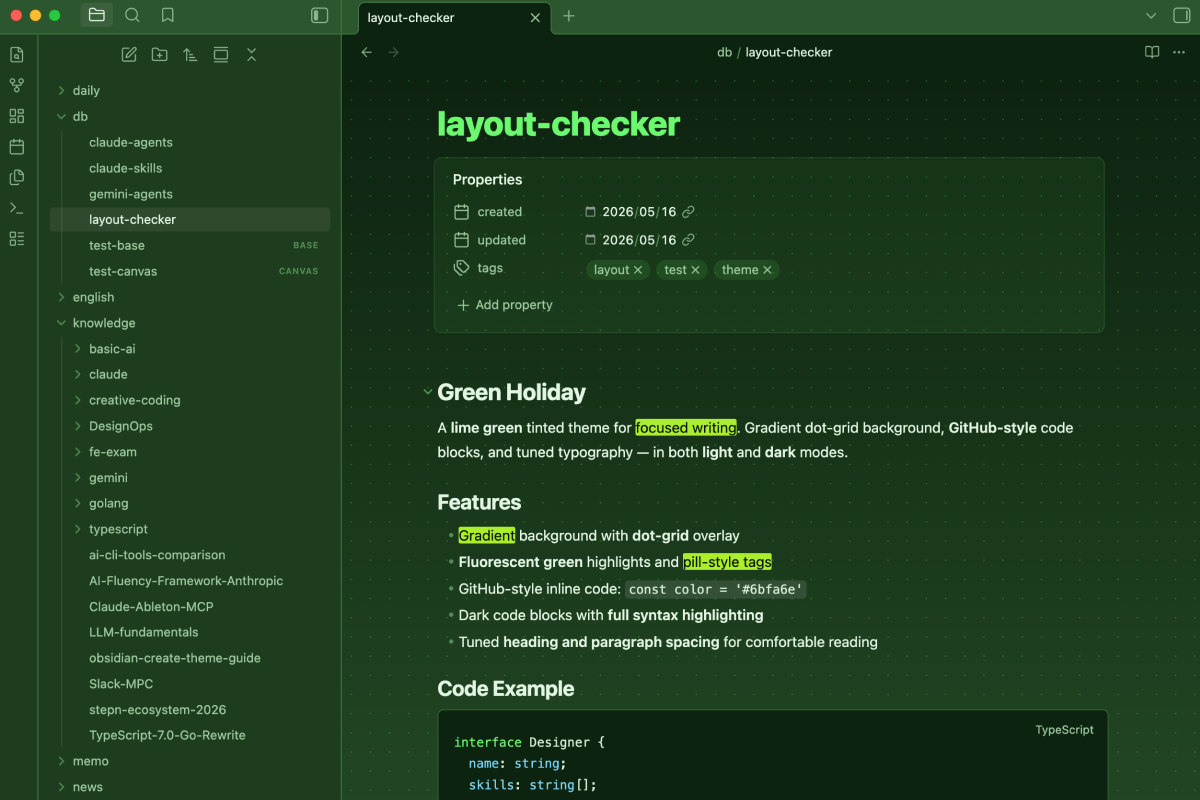
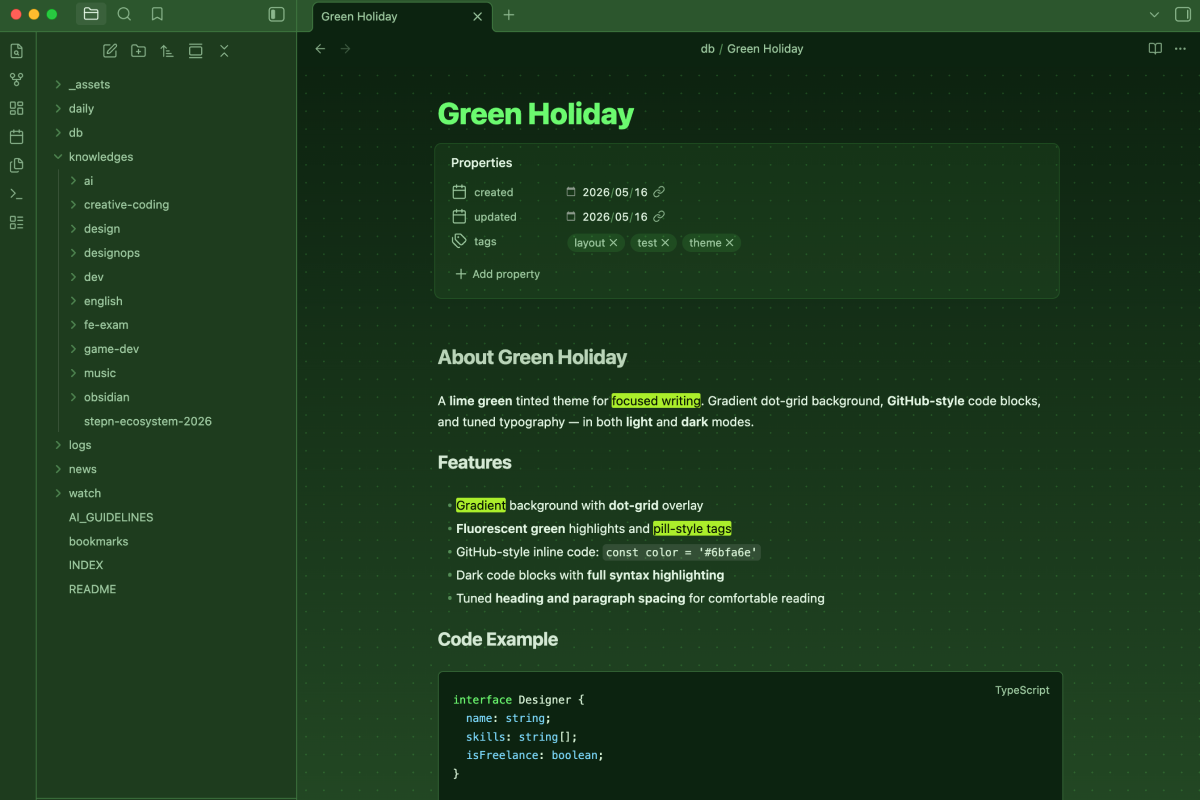
0.3.1: update screenshots

diff --git a/theme.css b/theme.css
@@ -1,7 +1,7 @@
 /* ============================================================
    Green Holiday — Obsidian Theme
    A lime green tinted theme for focused writing.
-   Version: 0.3.0
+   Version: 0.3.1
    ============================================================ */
 
 /* ── Dark Mode ─────────────────────────────────────────────── */
